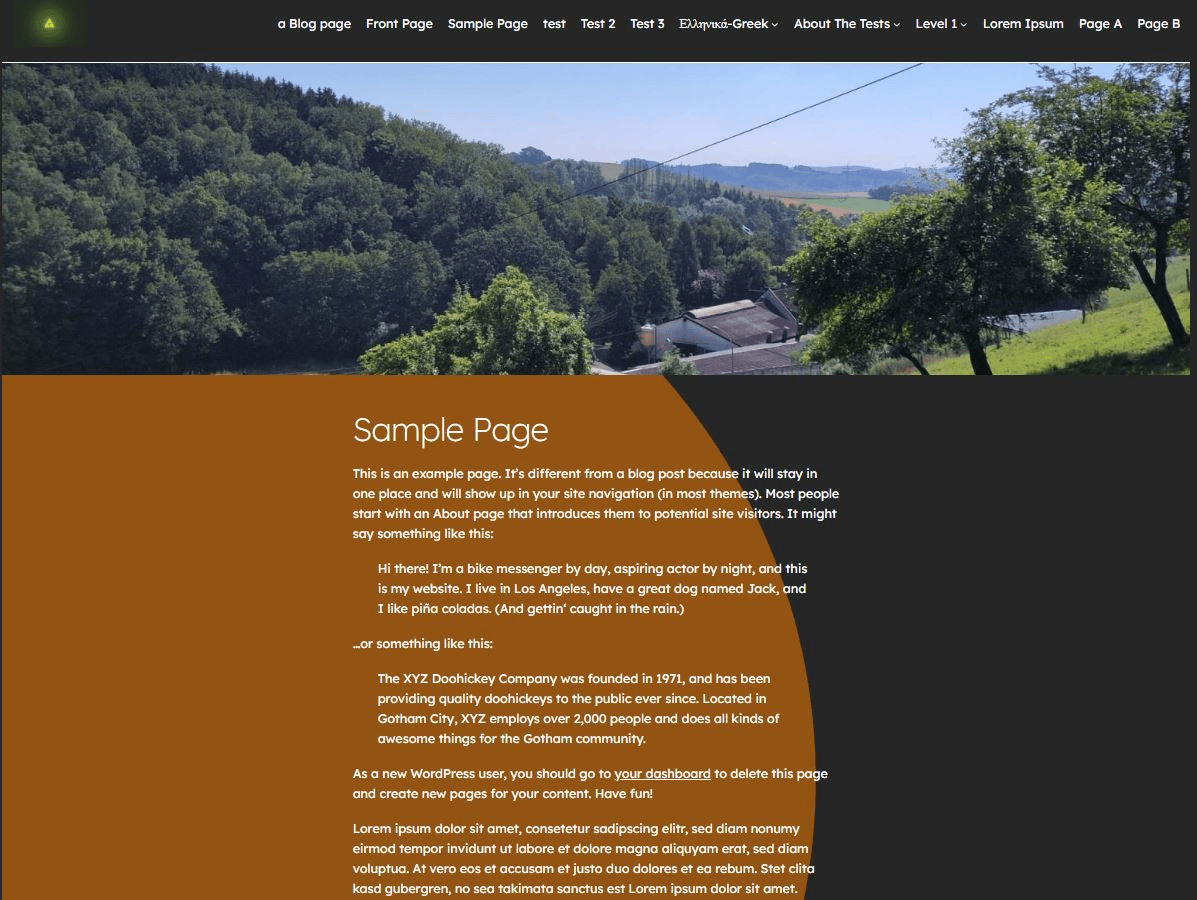
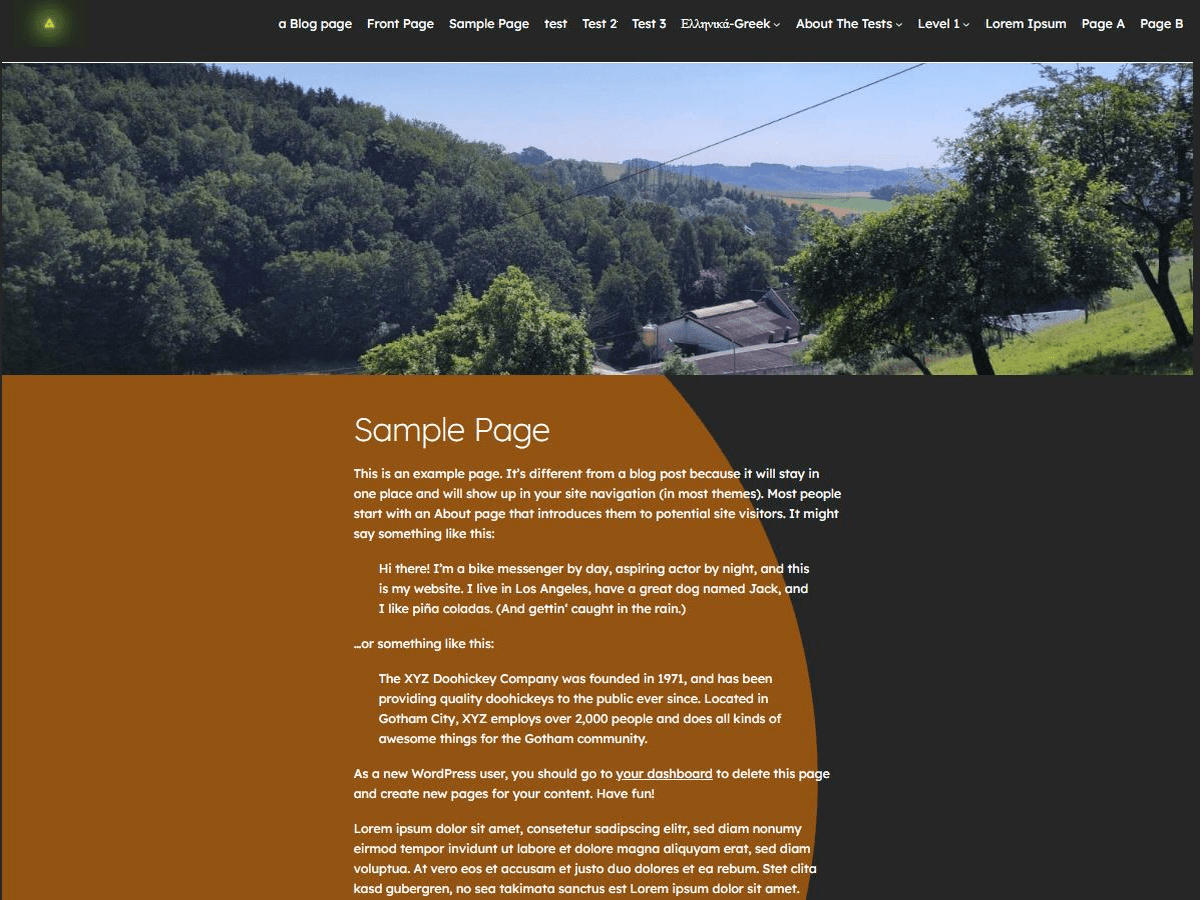
diverse Tweaks, Adds and Fixes, Version 0.6.6

diff --git a/circles/templates/template-index-alternative.html b/circles/templates/template-index-alternative.html
@@ -1,53 +1,1 @@
-<!-- wp:template-part {"slug":"header","area":"header"} /-->
-
-<!-- wp:separator {"className":"is-style-default"} -->
-<hr class="wp-block-separator has-alpha-channel-opacity is-style-default"/>
-<!-- /wp:separator -->
-
-<!-- wp:group {"tagName":"main","style":{"background":{"backgroundPosition":"50% 0"}},"layout":{"type":"constrained"}} -->
-<main class="wp-block-group"><!-- wp:spacer {"height":"30px"} -->
-<div style="height:30px" aria-hidden="true" class="wp-block-spacer"></div>
-<!-- /wp:spacer -->
-
-<!-- wp:group {"layout":{"type":"constrained"}} -->
-<div class="wp-block-group"><!-- wp:group {"align":"wide","layout":{"type":"constrained"}} -->
-<div class="wp-block-group alignwide"><!-- wp:query {"queryId":9,"query":{"perPage":6,"pages":0,"offset":0,"postType":"post","order":"desc","orderBy":"date","author":"","search":"","exclude":[],"sticky":"","inherit":true},"metadata":{"categories":["posts"],"patternName":"core/query-standard-posts","name":"Standard"},"layout":{"type":"constrained"}} -->
-<div class="wp-block-query"><!-- wp:post-template {"style":{"spacing":{"blockGap":"var:preset|spacing|60"}},"layout":{"type":"grid","columnCount":null,"minimumColumnWidth":"20rem"}} -->
-<!-- wp:group {"align":"wide","style":{"spacing":{"padding":{"right":"var:preset|spacing|30","left":"var:preset|spacing|30"}}},"layout":{"type":"constrained"}} -->
-<div class="wp-block-group alignwide" style="padding-right:var(--wp--preset--spacing--30);padding-left:var(--wp--preset--spacing--30)"><!-- wp:group {"align":"wide","style":{"dimensions":{"minHeight":"22em"}},"layout":{"type":"flex","orientation":"vertical","verticalAlignment":"space-between"}} -->
-<div class="wp-block-group alignwide" style="min-height:22em"><!-- wp:post-title {"isLink":true,"fontSize":"x-large"} /-->
-
-<!-- wp:post-featured-image {"isLink":true,"aspectRatio":"4/3","width":"","align":"wide","style":{"layout":{"selfStretch":"fit","flexSize":null}}} /--></div>
-<!-- /wp:group -->
-
-<!-- wp:post-excerpt {"moreText":"Read more"} /-->
-
-<!-- wp:separator {"opacity":"css"} -->
-<hr class="wp-block-separator has-css-opacity"/>
-<!-- /wp:separator -->
-
-<!-- wp:post-date /-->
-
-<!-- wp:spacer -->
-<div style="height:100px" aria-hidden="true" class="wp-block-spacer"></div>
-<!-- /wp:spacer --></div>
-<!-- /wp:group -->
-<!-- /wp:post-template -->
-
-<!-- wp:query-pagination -->
-<!-- wp:query-pagination-previous /-->
-
-<!-- wp:query-pagination-numbers /-->
-
-<!-- wp:query-pagination-next /-->
-<!-- /wp:query-pagination --></div>
-<!-- /wp:query --></div>
-<!-- /wp:group --></div>
-<!-- /wp:group --></main>
-<!-- /wp:group -->
-
-<!-- wp:separator {"className":"is-style-default"} -->
-<hr class="wp-block-separator has-alpha-channel-opacity is-style-default"/>
-<!-- /wp:separator -->
-
-<!-- wp:template-part {"slug":"footer","area":"footer"} /-->
+<!-- wp:pattern {"slug":"circles/template-index-alternative"} /-->

diff --git a/circles/parts/header.html b/circles/parts/header.html
@@ -1,6 +1,6 @@
 <!-- wp:group {"layout":{"type":"constrained"}} -->
-<div class="wp-block-group"><!-- wp:group {"align":"full","style":{"spacing":{"padding":{"right":"var:preset|spacing|40","left":"var:preset|spacing|40"}}},"layout":{"type":"flex","flexWrap":"nowrap","justifyContent":"space-between"}} -->
-<div class="wp-block-group alignfull" style="padding-right:var(--wp--preset--spacing--40);padding-left:var(--wp--preset--spacing--40)"><!-- wp:site-logo {"shouldSyncIcon":false} /-->
+<div class="wp-block-group"><!-- wp:group {"align":"full","style":{"spacing":{"padding":{"top":"var:preset|spacing|40","bottom":"var:preset|spacing|40","left":"var:preset|spacing|40","right":"var:preset|spacing|40"},"margin":{"top":"var:preset|spacing|40","bottom":"var:preset|spacing|40"}}},"layout":{"type":"flex","flexWrap":"nowrap","justifyContent":"space-between"}} -->
+<div class="wp-block-group alignfull" style="margin-top:var(--wp--preset--spacing--40);margin-bottom:var(--wp--preset--spacing--40);padding-top:var(--wp--preset--spacing--40);padding-right:var(--wp--preset--spacing--40);padding-bottom:var(--wp--preset--spacing--40);padding-left:var(--wp--preset--spacing--40)"><!-- wp:site-logo {"width":120,"shouldSyncIcon":false} /-->
 
 <!-- wp:navigation {"icon":"menu","templateLock":false,"style":{"layout":{"selfStretch":"fit","flexSize":null},"typography":{"lineHeight":"2.3"}},"layout":{"type":"flex","justifyContent":"center"}} /--></div>
 <!-- /wp:group --></div>

diff --git a/circles/templates/template-full-width.html b/circles/templates/template-full-width.html
@@ -9,7 +9,7 @@
 <div class="wp-block-group alignfull"><!-- wp:post-featured-image {"height":"25em","align":"full"} /-->
 
 <!-- wp:group {"align":"full","style":{"background":{"backgroundPosition":"35% 42%"},"spacing":{"padding":{"right":"var:preset|spacing|40","left":"var:preset|spacing|40"}}},"layout":{"type":"constrained"}} -->
-<div class="wp-block-group alignfull" style="padding-right:var(--wp--preset--spacing--40);padding-left:var(--wp--preset--spacing--40)"><!-- wp:post-title {"align":"full","style":{"spacing":{"padding":{"top":"30px"}}}} /-->
+<div class="wp-block-group alignfull" style="padding-right:var(--wp--preset--spacing--40);padding-left:var(--wp--preset--spacing--40)"><!-- wp:post-title {"level":1,"align":"full","style":{"spacing":{"padding":{"top":"30px"}}}} /-->
 
 <!-- wp:post-content {"align":"full"} /--></div>
 <!-- /wp:group --></div>

diff --git a/circles/templates/template-blank-template.html b/circles/templates/template-blank-template.html
@@ -9,7 +9,7 @@
 <div class="wp-block-group alignfull"><!-- wp:post-featured-image {"height":"25em","align":"full"} /-->
 
 <!-- wp:group {"style":{"background":{"backgroundPosition":"35% 42%"},"spacing":{"padding":{"right":"var:preset|spacing|30","left":"var:preset|spacing|30"}}},"layout":{"type":"constrained"}} -->
-<div class="wp-block-group" style="padding-right:var(--wp--preset--spacing--30);padding-left:var(--wp--preset--spacing--30)"><!-- wp:post-title {"style":{"spacing":{"padding":{"top":"30px"}}}} /-->
+<div class="wp-block-group" style="padding-right:var(--wp--preset--spacing--30);padding-left:var(--wp--preset--spacing--30)"><!-- wp:post-title {"level":1,"style":{"spacing":{"padding":{"top":"30px"}}}} /-->
 
 <!-- wp:post-content /--></div>
 <!-- /wp:group --></div>

diff --git a/circles/style.css b/circles/style.css
@@ -7,7 +7,7 @@ Description: Circles is a clean, flexible, fast and accessibility-ready block th
 Requires at least: 
 Tested up to: 6.6
 Requires PHP: 7.4
-Version: 0.6.5.1
+Version: 0.6.6
 License: GNU General Public License v2 or later
 License URI: http://www.gnu.org/licenses/gpl-2.0.html
 Text Domain: circles

diff --git a/circles/patterns/template-index-alternative.php b/circles/patterns/template-index-alternative.php
@@ -1,7 +1,7 @@
 <?php
 /**
- * Title: index
- * Slug: circles/index
+ * Title: template-index-alternative
+ * Slug: circles/template-index-alternative
  * Inserter: no
  */
 ?>
@@ -12,12 +12,14 @@
 <!-- /wp:separator -->
 
 <!-- wp:group {"tagName":"main","style":{"background":{"backgroundImage":{"url":"<?php echo esc_url( get_stylesheet_directory_uri() ); ?>/assets/images/circle_light_orange.svg","id":6935,"source":"file","title":"circle_light_orange"},"backgroundPosition":"50% 0"}},"layout":{"type":"constrained"}} -->
-<main class="wp-block-group"><!-- wp:heading {"level":1,"align":"wide","style":{"spacing":{"padding":{"top":"var:preset|spacing|50"}}}} -->
+<main class="wp-block-group"><!-- wp:group {"layout":{"type":"constrained"}} -->
+<div class="wp-block-group"><!-- wp:heading {"level":1,"align":"wide","style":{"spacing":{"padding":{"top":"var:preset|spacing|50"}}}} -->
 <h1 class="wp-block-heading alignwide" style="padding-top:var(--wp--preset--spacing--50)"><?php esc_html_e('Posts', 'circles');?></h1>
-<!-- /wp:heading -->
+<!-- /wp:heading --></div>
+<!-- /wp:group -->
 
-<!-- wp:query {"queryId":4,"query":{"perPage":6,"pages":0,"offset":"0","postType":"post","order":"desc","orderBy":"date","author":"","search":"","exclude":[],"sticky":"","inherit":true},"align":"wide","layout":{"type":"default"}} -->
-<div class="wp-block-query alignwide"><!-- wp:query-no-results -->
+<!-- wp:query {"queryId":4,"query":{"perPage":6,"pages":0,"offset":"0","postType":"post","order":"desc","orderBy":"date","author":"","search":"","exclude":[],"sticky":"","inherit":true},"layout":{"type":"default"}} -->
+<div class="wp-block-query"><!-- wp:query-no-results -->
 <!-- wp:paragraph -->
 <p><?php esc_html_e('No posts were found.', 'circles');?></p>
 <!-- /wp:paragraph -->
@@ -25,10 +27,10 @@
 
 <!-- wp:group {"style":{"spacing":{"padding":{"top":"var:preset|spacing|50","bottom":"var:preset|spacing|50","left":"0","right":"0"},"margin":{"top":"0","bottom":"0"}}},"layout":{"type":"default"}} -->
 <div class="wp-block-group" style="margin-top:0;margin-bottom:0;padding-top:var(--wp--preset--spacing--50);padding-right:0;padding-bottom:var(--wp--preset--spacing--50);padding-left:0"><!-- wp:post-template {"align":"full","style":{"spacing":{"blockGap":"var:preset|spacing|50"}},"layout":{"type":"grid","columnCount":"2"}} -->
-<!-- wp:post-featured-image {"isLink":true,"aspectRatio":"4/3","style":{"spacing":{"margin":{"bottom":"0"},"padding":{"bottom":"var:preset|spacing|20"}}}} /-->
+<!-- wp:post-featured-image {"isLink":true,"aspectRatio":"3/4","style":{"spacing":{"margin":{"bottom":"0"},"padding":{"bottom":"var:preset|spacing|20"}}}} /-->
 
-<!-- wp:group {"style":{"spacing":{"blockGap":"10px","margin":{"top":"var:preset|spacing|40","bottom":"2em"},"padding":{"top":"0"}}},"layout":{"type":"flex","orientation":"vertical","flexWrap":"nowrap","verticalAlignment":"top"}} -->
-<div class="wp-block-group" style="margin-top:var(--wp--preset--spacing--40);margin-bottom:2em;padding-top:0"><!-- wp:post-title {"isLink":true,"style":{"layout":{"flexSize":"min(2.5rem, 3vw)","selfStretch":"fixed"}},"fontSize":"large"} /-->
+<!-- wp:group {"style":{"spacing":{"blockGap":"10px","margin":{"top":"var:preset|spacing|20"},"padding":{"top":"0"}}},"layout":{"type":"flex","orientation":"vertical","flexWrap":"nowrap"}} -->
+<div class="wp-block-group" style="margin-top:var(--wp--preset--spacing--20);padding-top:0"><!-- wp:post-title {"isLink":true,"style":{"layout":{"flexSize":"min(2.5rem, 3vw)","selfStretch":"fixed"}},"fontSize":"large"} /-->
 
 <!-- wp:post-excerpt {"moreText":"Read more","style":{"layout":{"flexSize":"min(2.5rem, 3vw)","selfStretch":"fixed"}}} /-->
 
@@ -40,7 +42,11 @@
 <!-- /wp:paragraph -->
 
 <!-- wp:post-author {"showAvatar":false} /--></div>
-<!-- /wp:group --></div>
+<!-- /wp:group -->
+
+<!-- wp:spacer {"height":"0px","style":{"layout":{"flexSize":"min(2.5rem, 3vw)","selfStretch":"fixed"}}} -->
+<div style="height:0px" aria-hidden="true" class="wp-block-spacer"></div>
+<!-- /wp:spacer --></div>
 <!-- /wp:group -->
 <!-- /wp:post-template -->
 

diff --git a/circles/patterns/page-alternative-two-circles.php b/circles/patterns/page-alternative-two-circles.php
@@ -2,11 +2,8 @@
 /**
  * Title: Page Alternative with Two Circles
  * Slug: circles/page-alternative-two-circles
- * Categories: circles_page
- * Keywords: page
- * Block Types: core/post-content
- * Post Types: page, wp_template
- * Description: Page Alternative with Two Circles
+ * Template Types: front-page, home
+ * Inserter: no
  */
 ?>
 <!-- wp:template-part {"slug":"header","area":"header"} /-->
@@ -22,7 +19,7 @@
 
 <!-- wp:group {"tagName":"main","align":"full","style":{"background":{"backgroundImage":{"url":"<?php echo esc_url( get_stylesheet_directory_uri() ); ?>/assets/images/circle_light_orange.svg","id":6935,"source":"file","title":"circle_light_orange"},"backgroundPosition":"50% 0"}},"layout":{"type":"constrained"}} -->
 <main class="wp-block-group alignfull"><!-- wp:group {"style":{"background":{"backgroundImage":{"url":"<?php echo esc_url( get_stylesheet_directory_uri() ); ?>/assets/images/circle_light_orange.svg","id":6935,"source":"file","title":"circle_light_orange"},"backgroundPosition":"35% 42%"},"spacing":{"padding":{"right":"var:preset|spacing|30","left":"var:preset|spacing|30"}}},"layout":{"type":"constrained"}} -->
-<div class="wp-block-group" style="padding-right:var(--wp--preset--spacing--30);padding-left:var(--wp--preset--spacing--30)"><!-- wp:post-title /-->
+<div class="wp-block-group" style="padding-right:var(--wp--preset--spacing--30);padding-left:var(--wp--preset--spacing--30)"><!-- wp:post-title {"level":1} /-->
 
 <!-- wp:post-content /--></div>
 <!-- /wp:group --></main>

diff --git a/circles/patterns/template-with-green-circle.php b/circles/patterns/template-with-green-circle.php
@@ -1,12 +1,8 @@
 <?php
 /**
- * Title: Template with green Circle
+ * Title: template-with-green-circle
  * Slug: circles/template-with-green-circle
- * Categories: circles_page
- * Keywords: page
- * Block Types: core/post-content
- * Post Types: page, wp_template
- * Description: Template with green Circle
+ * Inserter: no
  */
 ?>
 <!-- wp:template-part {"slug":"header","area":"header"} /-->
@@ -20,7 +16,7 @@
 <div class="wp-block-group alignfull"><!-- wp:post-featured-image {"height":"25em","align":"full"} /-->
 
 <!-- wp:group {"style":{"background":{"backgroundPosition":"35% 42%"},"spacing":{"padding":{"right":"var:preset|spacing|30","left":"var:preset|spacing|30"}}},"layout":{"type":"constrained"}} -->
-<div class="wp-block-group" style="padding-right:var(--wp--preset--spacing--30);padding-left:var(--wp--preset--spacing--30)"><!-- wp:post-title {"style":{"spacing":{"padding":{"top":"30px"}}}} /-->
+<div class="wp-block-group" style="padding-right:var(--wp--preset--spacing--30);padding-left:var(--wp--preset--spacing--30)"><!-- wp:post-title {"level":1,"style":{"spacing":{"padding":{"top":"30px"}}}} /-->
 
 <!-- wp:post-content /--></div>
 <!-- /wp:group --></div>

diff --git a/circles/patterns/template-with-blue-circle.php b/circles/patterns/template-with-blue-circle.php
@@ -1,12 +1,8 @@
 <?php
 /**
- * Title: Template with blue Circle
+ * Title: template-with-blue-circle
  * Slug: circles/template-with-blue-circle
- * Categories: circles_page
- * Keywords: page
- * Block Types: core/post-content
- * Post Types: page, wp_template
- * Description: Template with blue Circle
+ * Inserter: no
  */
 ?>
 <!-- wp:template-part {"slug":"header","area":"header"} /-->
@@ -20,7 +16,7 @@
 <div class="wp-block-group alignfull"><!-- wp:post-featured-image {"height":"25em","align":"full"} /-->
 
 <!-- wp:group {"style":{"background":{"backgroundPosition":"35% 42%"},"spacing":{"padding":{"right":"var:preset|spacing|30","left":"var:preset|spacing|30"}}},"layout":{"type":"constrained"}} -->
-<div class="wp-block-group" style="padding-right:var(--wp--preset--spacing--30);padding-left:var(--wp--preset--spacing--30)"><!-- wp:post-title {"style":{"spacing":{"padding":{"top":"30px"}}}} /-->
+<div class="wp-block-group" style="padding-right:var(--wp--preset--spacing--30);padding-left:var(--wp--preset--spacing--30)"><!-- wp:post-title {"level":1,"style":{"spacing":{"padding":{"top":"30px"}}}} /-->
 
 <!-- wp:post-content /--></div>
 <!-- /wp:group --></div>

diff --git a/circles/patterns/hidden-post-meta.php b/circles/patterns/hidden-post-meta.php
@@ -1,0 +1,30 @@
+<?php
+/**
+ * Title: Post meta
+ * Slug: circles/hidden-post-meta
+ * Inserter: no
+ */
+?>
+
+<!-- wp:group {"layout":{"type":"constrained"}} -->
+<div class="wp-block-group">
+	<!-- wp:group {"style":{"spacing":{"blockGap":"0.3em"}},"layout":{"type":"flex","justifyContent":"left"}} -->
+	<div class="wp-block-group">
+		<!-- wp:post-date {"format":"M j, Y","isLink":true} /-->
+
+		<!-- wp:paragraph {"textColor":"contrast-2"} -->
+		<p class="has-contrast-2-color has-text-color">—</p>
+		<!-- /wp:paragraph -->
+
+		<!-- wp:paragraph {"fontSize":"small","textColor":"contrast-2"} -->
+		<p class="has-small-font-size has-contrast-2-color has-text-color"><?php echo esc_html_x( 'by', 'Prefix for the post author block: By author name', 'circles' ); ?></p>
+		<!-- /wp:paragraph -->
+
+		<!-- wp:post-author-name {"isLink":true} /-->
+
+		<!-- wp:post-terms {"term":"category","prefix":"<?php echo esc_html_x( 'in ', 'Prefix for the post category block: in category name', 'circles' ); ?>"} /-->
+
+	</div>
+	<!-- /wp:group -->
+</div>
+<!-- /wp:group -->

diff --git a/circles/patterns/single-post-with-sidebar.php b/circles/patterns/single-post-with-sidebar.php
@@ -1,12 +1,8 @@
 <?php
 /**
- * Title: Single Post with Sidebar
+ * Title: single-post-with-sidebar
  * Slug: circles/single-post-with-sidebar
- * Categories: circles_page
- * Keywords: page
- * Block Types: core/post-content
- * Post Types: page, wp_template
- * Description: Single Post with Sidebar
+ * Inserter: no
  */
 ?>
 <!-- wp:template-part {"slug":"header","area":"header"} /-->
@@ -27,7 +23,7 @@
 <div class="wp-block-group alignfull"><!-- wp:group {"style":{"background":{"backgroundPosition":"35% 42%"},"spacing":{"padding":{"right":"var:preset|spacing|30","left":"var:preset|spacing|30"}}},"layout":{"type":"constrained"}} -->
 <div class="wp-block-group" style="padding-right:var(--wp--preset--spacing--30);padding-left:var(--wp--preset--spacing--30)"><!-- wp:post-featured-image {"style":{"spacing":{"padding":{"bottom":"2vh"}}}} /-->
 
-<!-- wp:post-title {"style":{"spacing":{"padding":{"top":"30px"}}}} /-->
+<!-- wp:post-title {"level":1,"style":{"spacing":{"padding":{"top":"30px"}}}} /-->
 
 <!-- wp:post-content /--></div>
 <!-- /wp:group --></div>

diff --git a/circles/patterns/page-with-sidebar.php b/circles/patterns/page-with-sidebar.php
@@ -1,12 +1,9 @@
 <?php
 /**
- * Title: Page with Sidebar
+ * Title: page-with-sidebar
  * Slug: circles/page-with-sidebar
- * Categories: circles_page
- * Keywords: page
- * Block Types: core/post-content
- * Post Types: page, wp_template
- * Description: Page with Sidebar
+ * Template Types: page, home
+ * Inserter: no
  */
 ?>
 <!-- wp:template-part {"slug":"header","area":"header"} /-->
@@ -26,7 +23,7 @@
 <div class="wp-block-group alignfull"><!-- wp:group {"style":{"background":{"backgroundPosition":"35% 42%"},"spacing":{"padding":{"right":"var:preset|spacing|30","left":"var:preset|spacing|30"}}},"layout":{"type":"constrained"}} -->
 <div class="wp-block-group" style="padding-right:var(--wp--preset--spacing--30);padding-left:var(--wp--preset--spacing--30)"><!-- wp:post-featured-image /-->
 
-<!-- wp:post-title {"style":{"spacing":{"padding":{"top":"30px"}}}} /-->
+<!-- wp:post-title {"level":1,"style":{"spacing":{"padding":{"top":"30px"}}}} /-->
 
 <!-- wp:post-content /--></div>
 <!-- /wp:group --></div>
